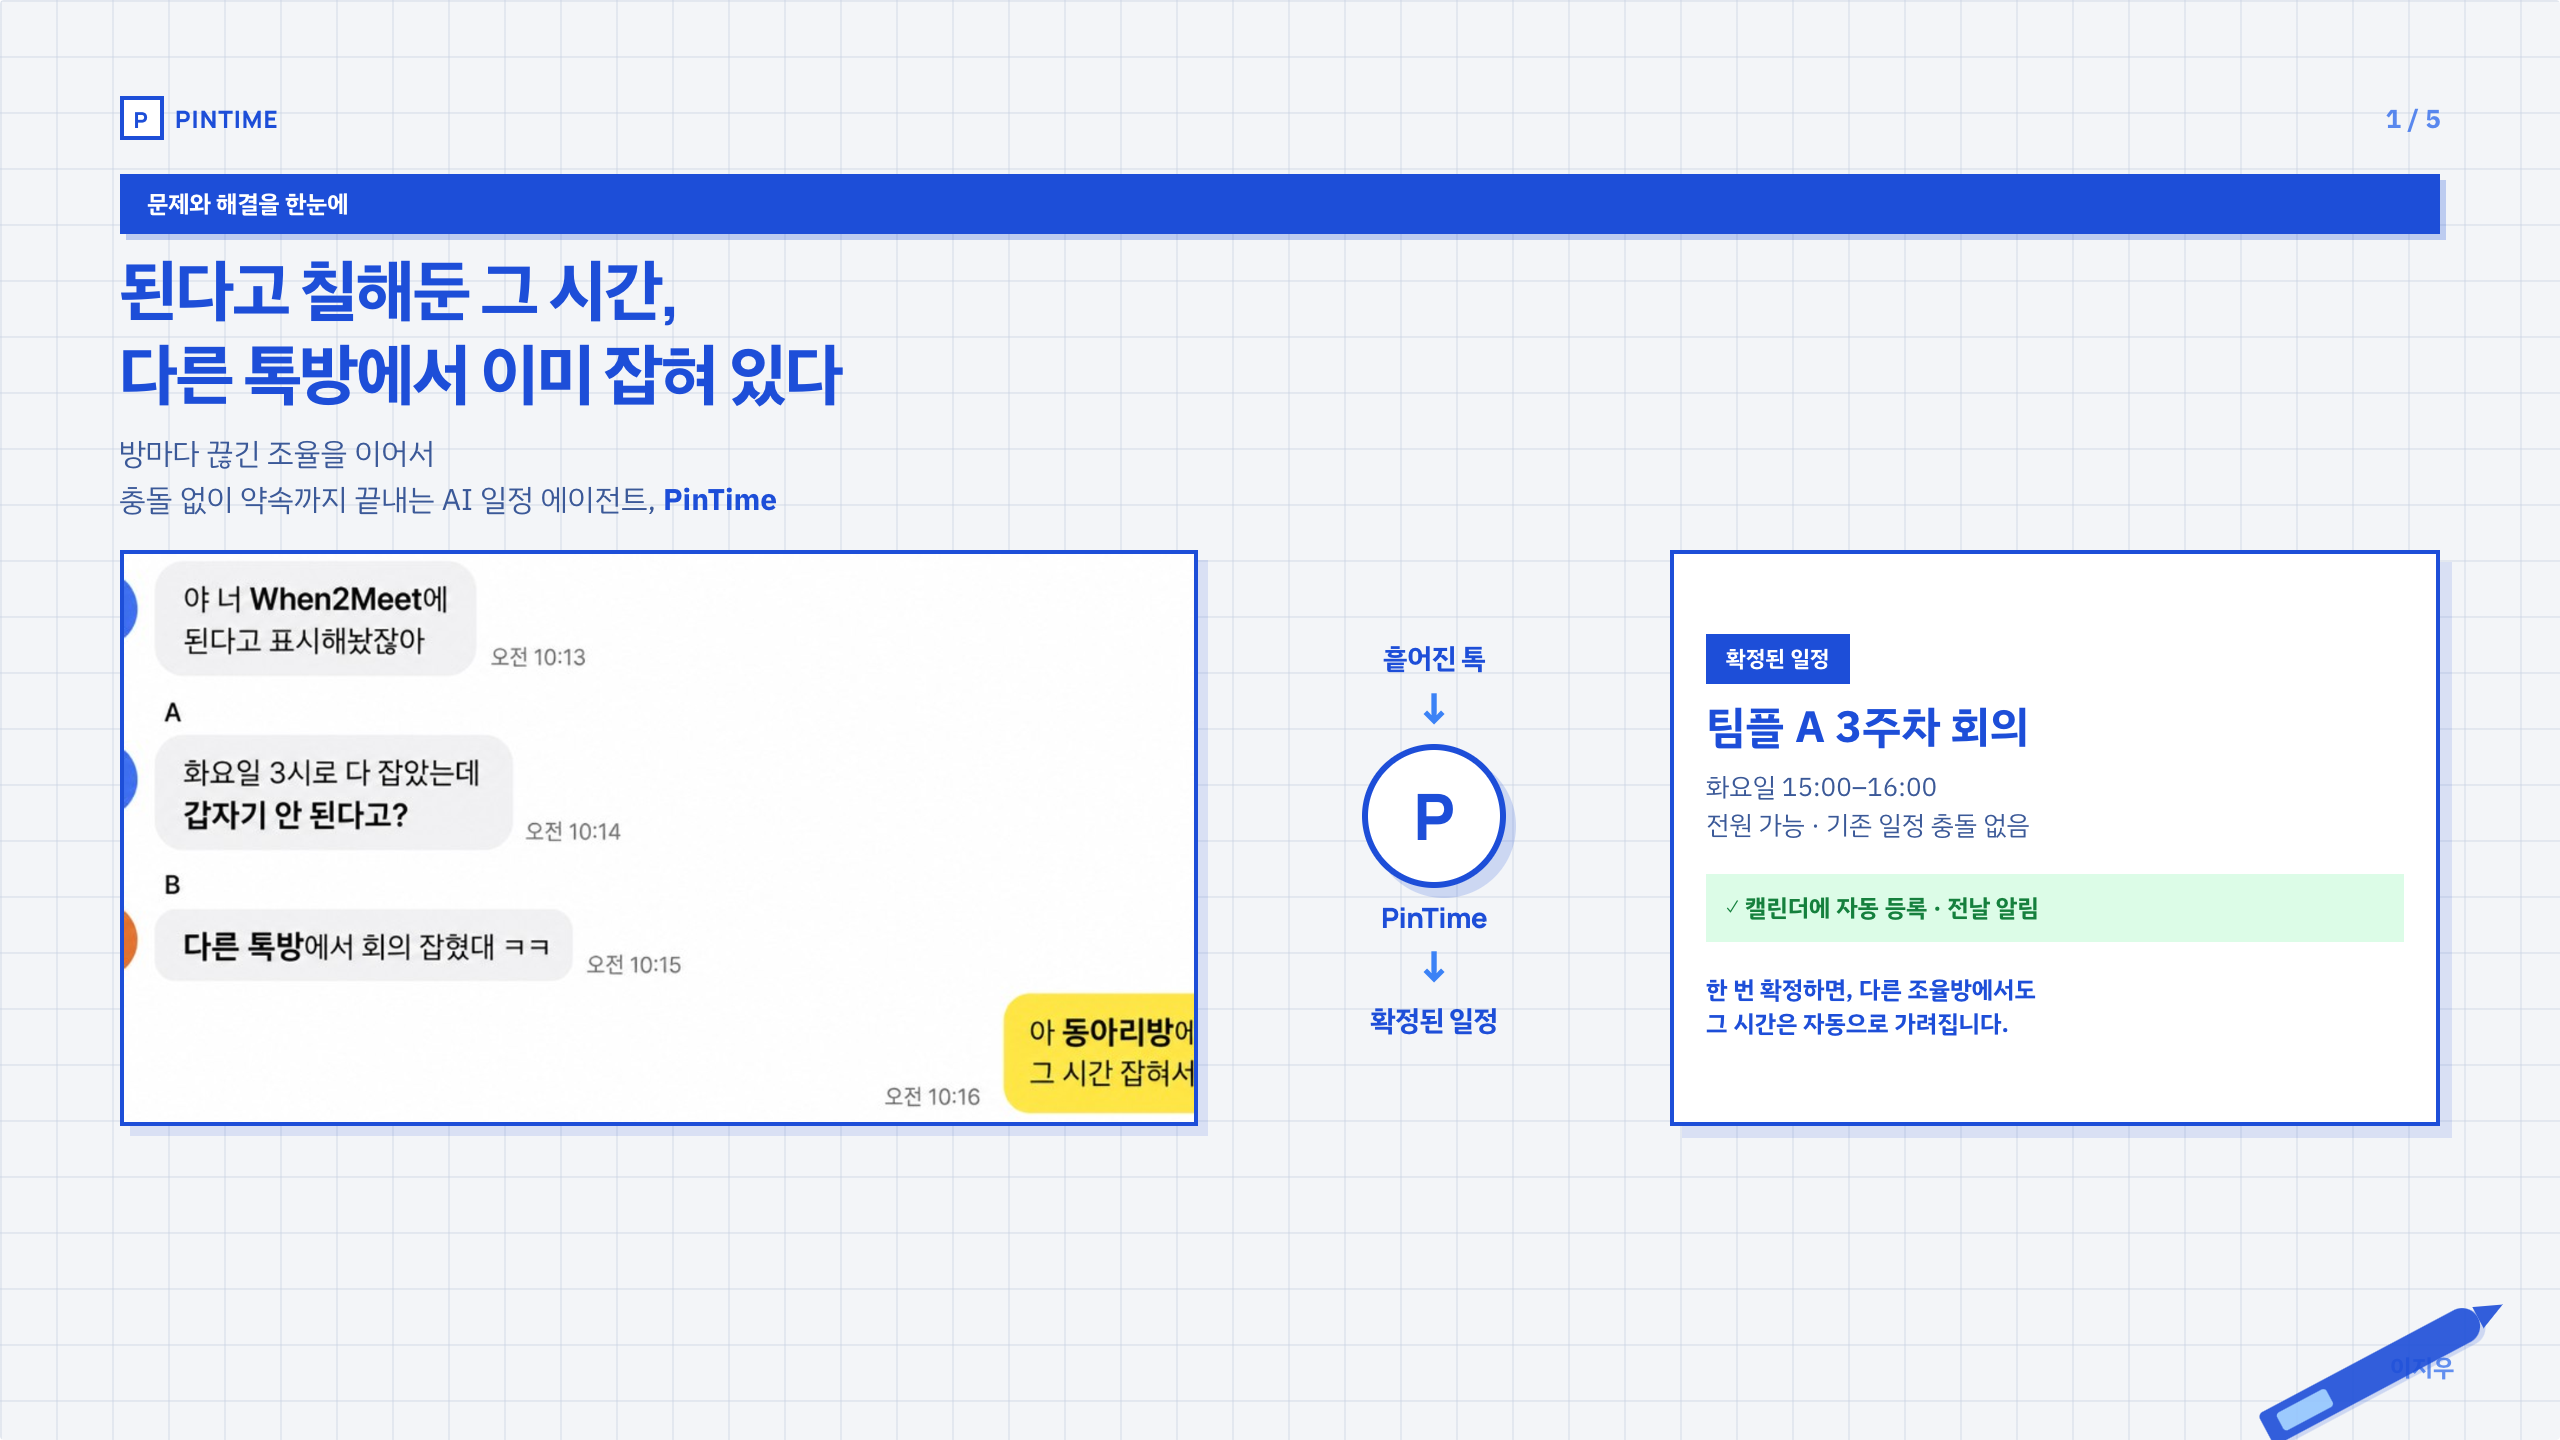
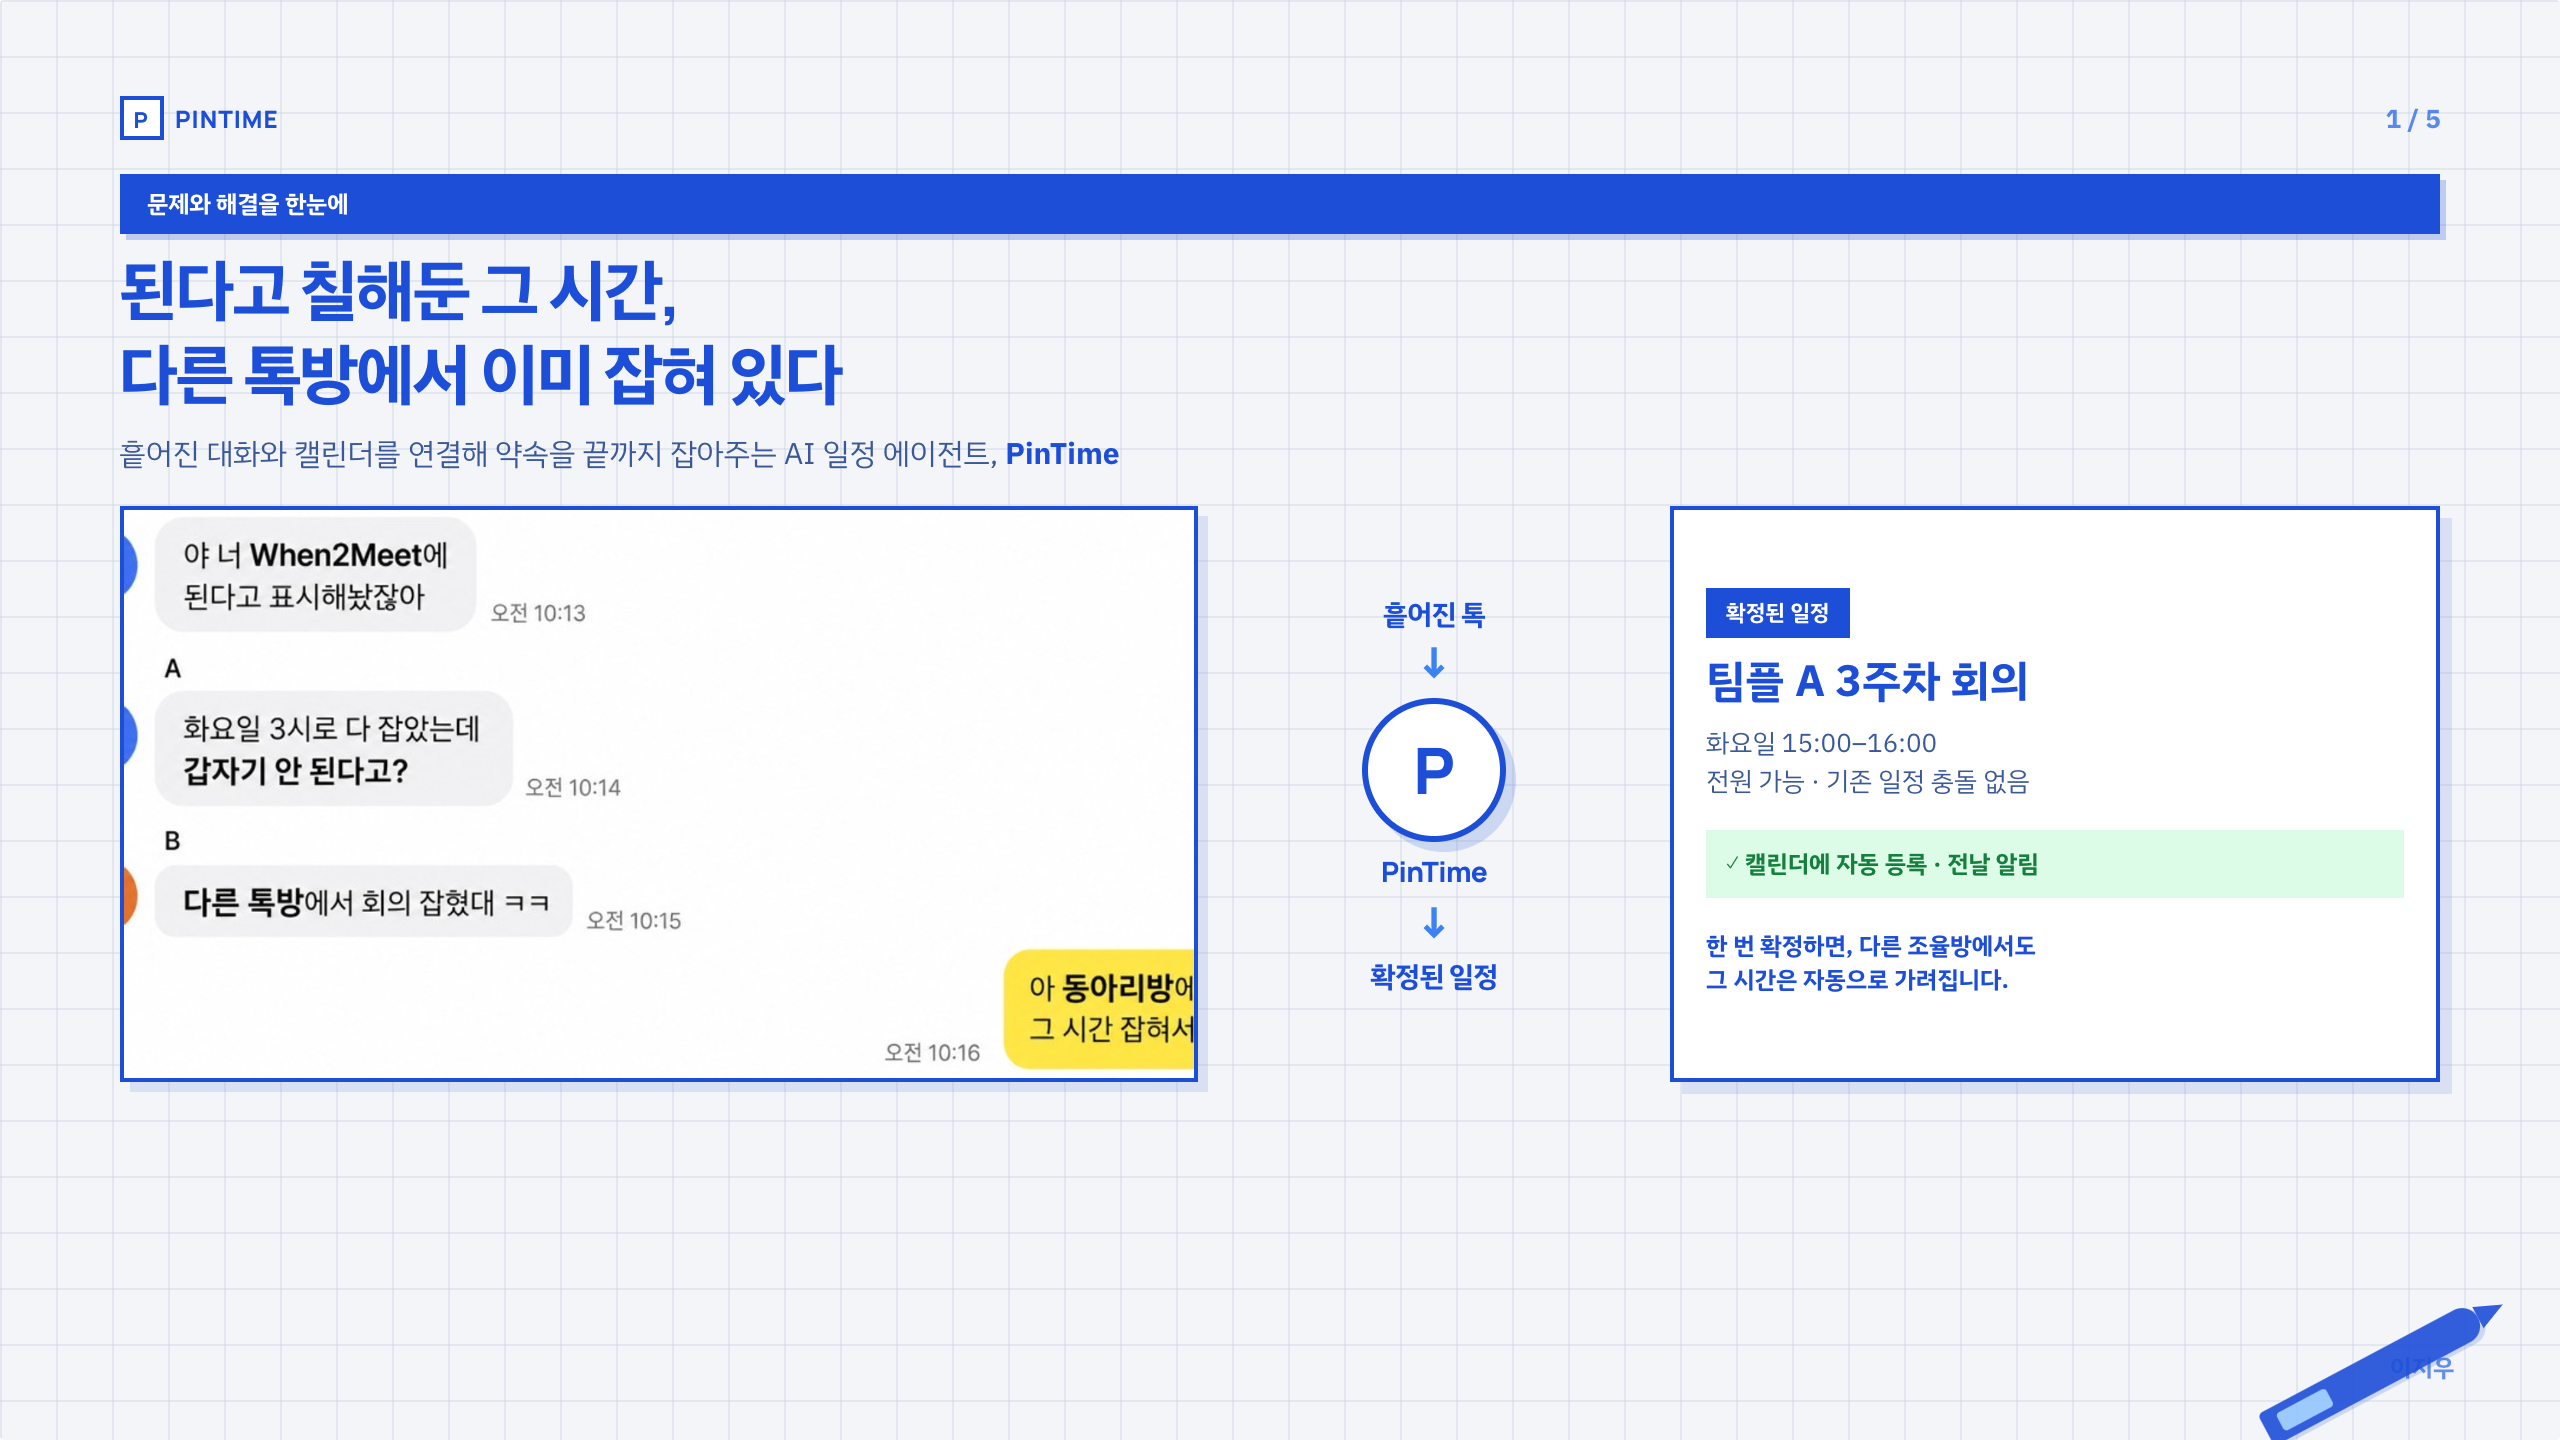
Keep pitch slide-1 lead copy on a single line.

diff --git a/public/pitch.html b/public/pitch.html
@@ -1942,9 +1942,9 @@
             된다고 칠해둔 그 시간,<br />
             다른 톡방에서 이미 잡혀 있다
           </h1>
-          <p class="slide-lead">
-            방마다 끊긴 조율을 이어서<br />
-            충돌 없이 약속까지 끝내는 AI 일정 에이전트, <b style="color:var(--blue)">PinTime</b>
+          <p class="slide-lead" style="max-width:none;white-space:nowrap">
+            흩어진 대화와 캘린더를 연결해 약속을 끝까지 잡아주는 AI 일정 에이전트,
+            <b style="color:var(--blue)">PinTime</b>
           </p>
 
           <div class="hero-bridge">
